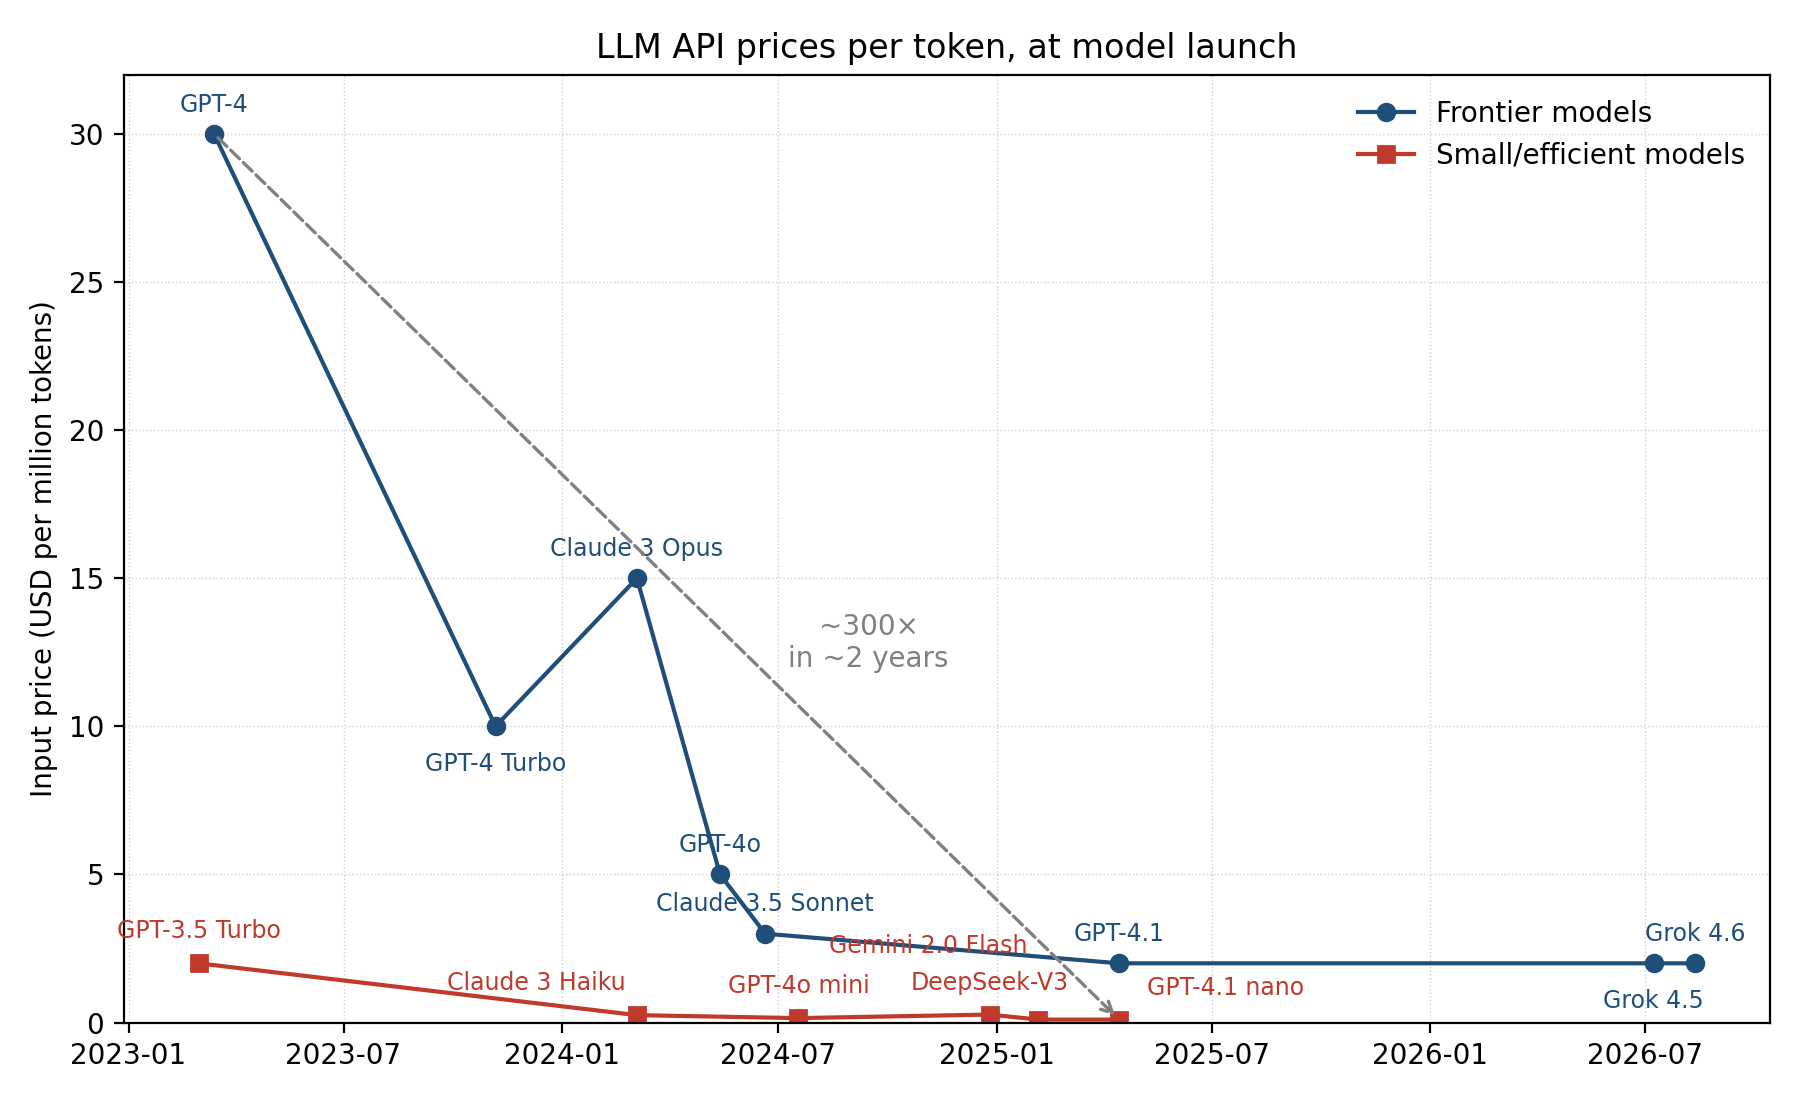
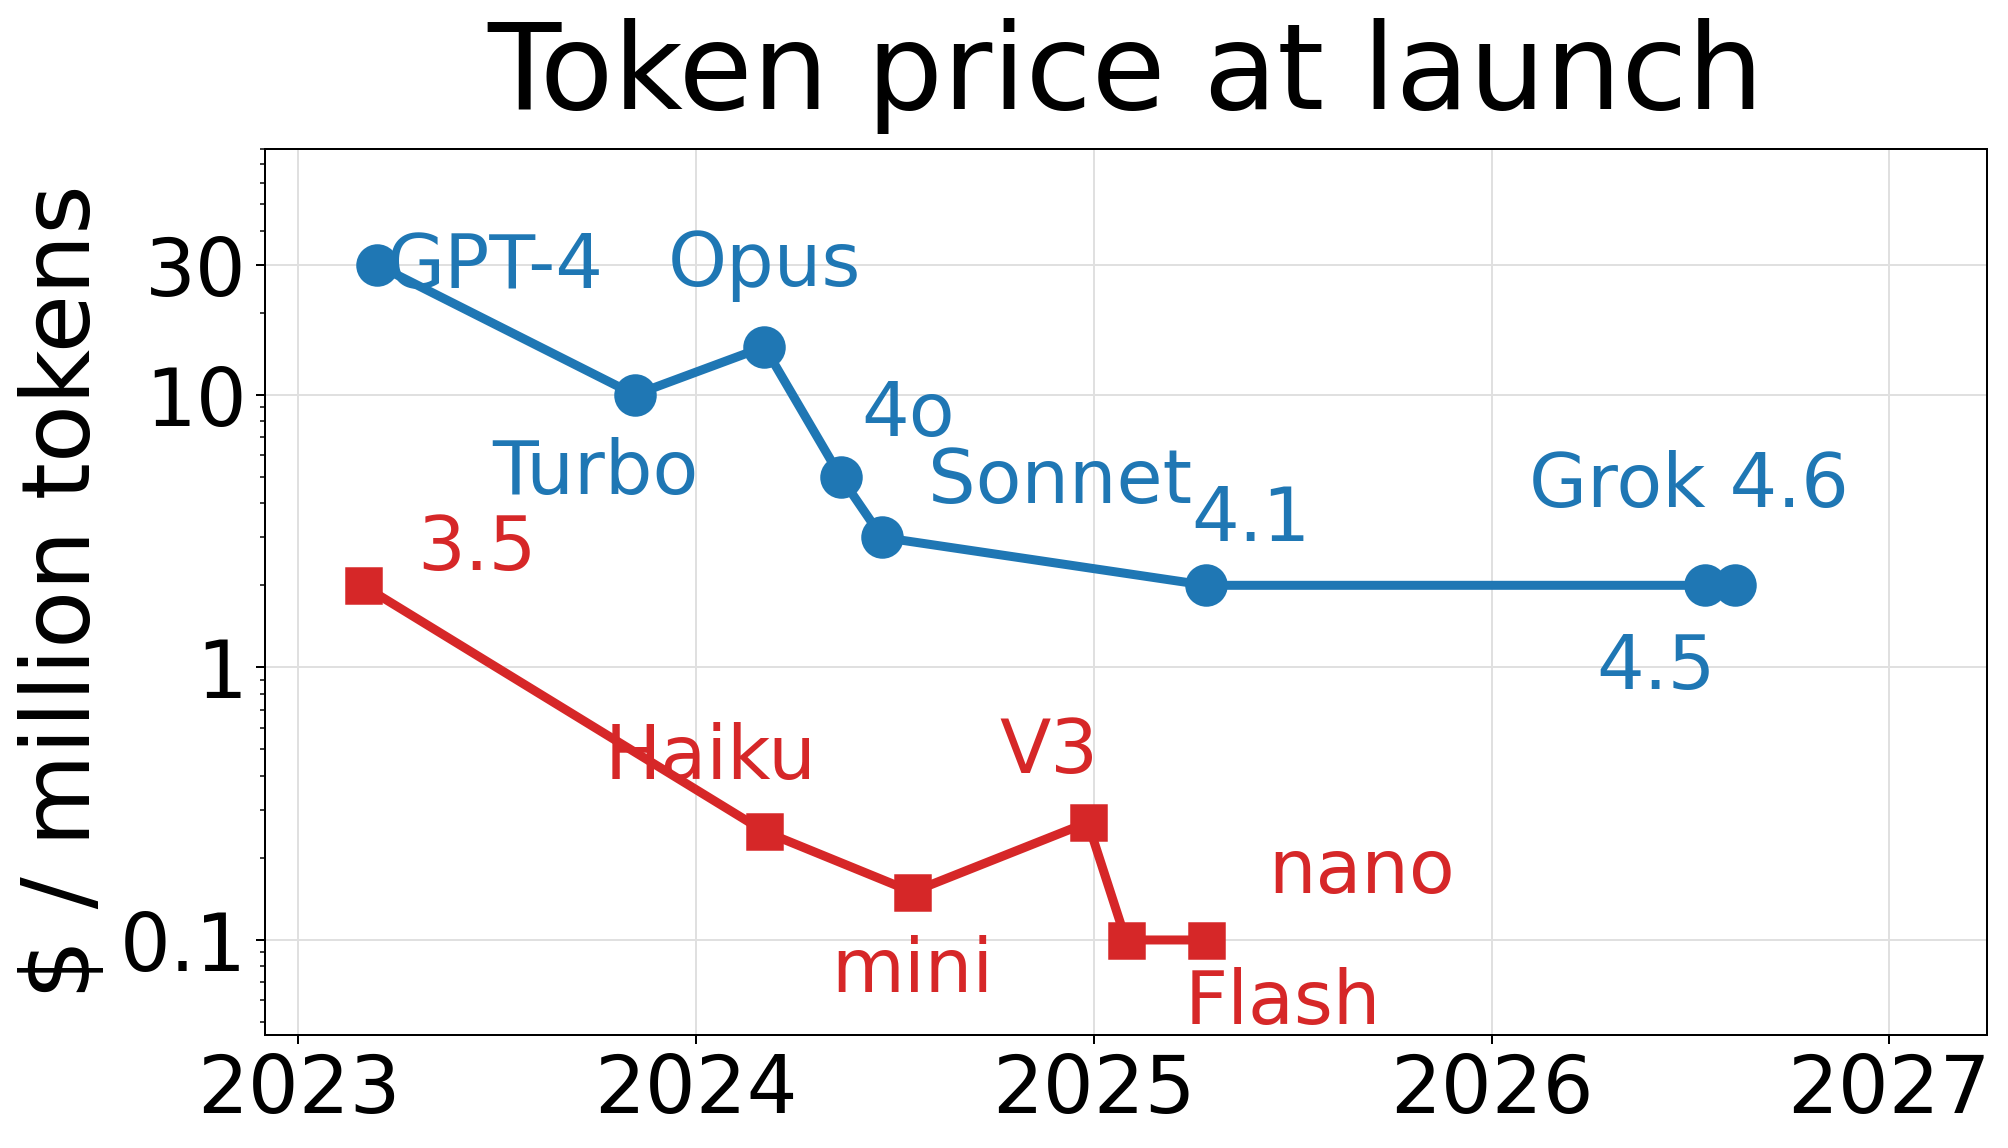
Update Saint John talk with poll chart and log-scale token prices.
Add a two-bar chart of the share writing no code (March vs August),
redraw token prices on a log axis with larger type, and include the
August poll and Stripe quote slides.

diff --git a/2026/saintjohn/token_prices.py b/2026/saintjohn/token_prices.py
@@ -1,0 +1,93 @@
+#!/usr/bin/env python3
+"""LLM API input prices at model launch. Log-scale redraw of token_prices-2.png."""
+from datetime import datetime
+
+import matplotlib.dates as mdates
+import matplotlib.pyplot as plt
+
+FRONTIER = [
+    ("GPT-4", "2023-03-14", 30.00),
+    ("Turbo", "2023-11-06", 10.00),
+    ("Opus", "2024-03-04", 15.00),
+    ("4o", "2024-05-13", 5.00),
+    ("Sonnet", "2024-06-20", 3.00),
+    ("4.1", "2025-04-14", 2.00),
+    ("Grok 4.5", "2026-07-16", 2.00),
+    ("Grok 4.6", "2026-08-12", 2.00),
+]
+
+SMALL = [
+    ("3.5", "2023-03-01", 2.00),
+    ("Haiku", "2024-03-04", 0.25),
+    ("mini", "2024-07-18", 0.15),
+    ("V3", "2024-12-26", 0.27),
+    ("Flash", "2025-01-30", 0.10),
+    ("nano", "2025-04-14", 0.10),
+]
+
+BLUE = "#1f77b4"
+RED = "#d62728"
+
+# Short names placed in data coordinates (log-friendly y).
+# (text, date, y, ha, va, color)
+LABELS = [
+    ("GPT-4", "2023-07-01", 40, "center", "top", BLUE),
+    ("Turbo", "2023-10-01", 7.0, "center", "top", BLUE),
+    ("Opus", "2024-03-04", 22, "center", "bottom", BLUE),
+    ("4o", "2024-06-01", 6.2, "left", "bottom", BLUE),
+    ("Sonnet", "2024-08-01", 3.5, "left", "bottom", BLUE),
+    ("4.1", "2025-05-25", 2.55, "center", "bottom", BLUE),
+    ("4.5", "2026-06-01", 1.35, "center", "top", BLUE),
+    ("Grok 4.6", "2026-07-01", 3.4, "center", "bottom", BLUE),
+    ("3.5", "2023-04-20", 2.0, "left", "bottom", RED),
+    ("Haiku", "2024-01-15", 0.34, "center", "bottom", RED),
+    ("mini", "2024-07-18", 0.105, "center", "top", RED),
+    ("V3", "2024-11-20", 0.36, "center", "bottom", RED),
+    ("Flash", "2025-03-25", 0.08, "left", "top", RED),
+    ("nano", "2025-06-10", 0.13, "left", "bottom", RED),
+]
+
+
+def to_dt(s):
+    return datetime.strptime(s, "%Y-%m-%d")
+
+
+plt.rcParams.update({
+    "font.size": 34,
+    "axes.titlesize": 48,
+    "axes.labelsize": 38,
+    "xtick.labelsize": 32,
+    "ytick.labelsize": 32,
+    "legend.fontsize": 34,
+    "figure.facecolor": "white",
+    "axes.facecolor": "white",
+})
+
+fig, ax = plt.subplots(figsize=(12.0, 7.2), dpi=180)
+
+fx = [to_dt(d) for _, d, _ in FRONTIER]
+fy = [p for _, _, p in FRONTIER]
+sx = [to_dt(d) for _, d, _ in SMALL]
+sy = [p for _, _, p in SMALL]
+
+ax.plot(fx, fy, color=BLUE, marker="o", markersize=16, linewidth=3.6, zorder=3)
+ax.plot(sx, sy, color=RED, marker="s", markersize=14, linewidth=3.6, zorder=3)
+
+for text, date, y, ha, va, color in LABELS:
+    ax.text(to_dt(date), y, text, color=color, fontsize=30,
+            ha=ha, va=va, clip_on=False)
+
+ax.set_yscale("log")
+ax.set_title("Token price at launch", pad=16)
+ax.set_ylabel("$ / million tokens")
+ax.set_ylim(0.045, 80)
+ax.set_xlim(to_dt("2022-12-01"), to_dt("2027-04-01"))
+ax.set_yticks([0.1, 1, 10, 30])
+ax.yaxis.set_major_formatter(plt.FuncFormatter(lambda v, _: f"{v:g}"))
+ax.yaxis.set_minor_formatter(plt.NullFormatter())
+ax.xaxis.set_major_locator(mdates.YearLocator())
+ax.xaxis.set_major_formatter(mdates.DateFormatter("%Y"))
+ax.grid(True, which="major", linestyle="-", color="0.88", zorder=0)
+ax.set_axisbelow(True)
+fig.tight_layout()
+fig.savefig("token_prices-2.png", dpi=180, bbox_inches="tight", facecolor="white")

diff --git a/2026/saintjohn/no_code_fraction.py b/2026/saintjohn/no_code_fraction.py
@@ -1,0 +1,61 @@
+#!/usr/bin/env python3
+"""Two-bar chart: share of respondents writing no code by hand."""
+import matplotlib.pyplot as plt
+
+PAPER = "#faf8f4"
+INK = "#1c1c28"
+MUTED = "#5c5c6b"
+ACCENT = "#9a2b2b"
+ACCENT_SOFT = "#c45c52"
+
+plt.rcParams.update({
+    "font.family": "sans-serif",
+    "font.sans-serif": ["Helvetica Neue", "Helvetica", "Arial"],
+    "font.size": 18,
+    "axes.titlesize": 26,
+    "axes.labelsize": 18,
+    "xtick.labelsize": 20,
+    "ytick.labelsize": 16,
+    "figure.facecolor": PAPER,
+    "axes.facecolor": PAPER,
+    "text.color": INK,
+    "axes.labelcolor": INK,
+    "xtick.color": INK,
+    "ytick.color": MUTED,
+    "axes.edgecolor": INK,
+})
+
+labels = ["March 15", "August 16"]
+values = [21.7, 38.9]
+colors = [ACCENT_SOFT, ACCENT]
+
+fig, ax = plt.subplots(figsize=(12.2, 5.0), dpi=180)
+bars = ax.bar(labels, values, width=0.52, color=colors, zorder=3)
+
+ax.set_title("Fraction writing no code", pad=14, fontfamily="Iowan Old Style",
+             fontweight="semibold", color=INK)
+ax.set_ylim(0, 48)
+ax.set_ylabel("%")
+ax.yaxis.set_major_formatter(plt.FuncFormatter(lambda x, _: f"{int(x)}"))
+ax.yaxis.grid(True, linestyle=":", color="#e4ded3", zorder=0)
+ax.set_axisbelow(True)
+for spine in ("top", "right", "left"):
+    ax.spines[spine].set_visible(False)
+ax.spines["bottom"].set_color(INK)
+ax.tick_params(axis="y", length=0)
+ax.tick_params(axis="x", length=0, pad=8)
+
+for bar, value in zip(bars, values):
+    ax.text(
+        bar.get_x() + bar.get_width() / 2,
+        bar.get_height() + 1.4,
+        f"{value:.1f}%",
+        ha="center",
+        va="bottom",
+        fontsize=22,
+        fontweight="medium",
+        color=INK,
+    )
+
+fig.tight_layout()
+fig.savefig("no_code_fraction.png", dpi=180, facecolor=PAPER, bbox_inches="tight")

diff --git a/2026/saintjohn/saintjohn.md b/2026/saintjohn/saintjohn.md
@@ -221,6 +221,21 @@ section.lead p { font-size: .92em; color: var(--muted); margin: .25em 0; }
 section.lead strong { color: var(--ink); }
 section.lead a { border-bottom: none; }
 section.lead footer { display: none; }
+
+/* chart slides: pack title, figure, and caption from the top */
+section.chart {
+  justify-content: flex-start;
+}
+section.chart h1 {
+  margin-bottom: .15em;
+}
+section.chart img:not(.emoji) {
+  max-height: 390px;
+  max-width: 100%;
+  margin: .1em auto .05em;
+  box-shadow: none;
+  border-radius: 0;
+}
 </style>
 
 <!-- _class: lead -->
@@ -247,15 +262,20 @@ X: [@lemire](https://x.com/lemire) · GitHub: [github.com/lemire](https://github
 
 ---
 
-# The plan
+<!-- _class: lead -->
 
-1. Where we actually are
-2. What makes an agent work
-   - benchmarks and tests as constraints
-   - context management
-   - orchestrating parallel agents
-3. Field reports
-4. What we must change: teaching, work, research
+## Preface
+
+## Back in the 1990s
+
+---
+
+# The singularity
+
+> « I believe that the creation of greater than human intelligence will occur during the next thirty years. (I'll be surprised if this event occurs before 2005 or after 2030.)  »
+
+Vernor Vinge, 1993
+
 
 ---
 
@@ -267,11 +287,20 @@ X: [@lemire](https://x.com/lemire) · GitHub: [github.com/lemire](https://github
 
 ---
 
-![](aiuse.png)
+![bg](aiuse.png)
 
 ---
 
+![bg](aiuseaugust.png)
+
+
+---
+
+<!-- _class: chart -->
+
 # What that poll really shows
+
+![](no_code_fraction.png)
 
 - this is a practice change, not a tool upgrade.
 
@@ -289,11 +318,11 @@ X: [@lemire](https://x.com/lemire) · GitHub: [github.com/lemire](https://github
 
 ---
 
-![](sota_frontier.png)
+![bg](sota_frontier.png)
 
 ---
 
-![](sota_frontier_open.png)
+![bg](sota_frontier_open.png)
 
 
 ---
@@ -316,9 +345,16 @@ X: [@lemire](https://x.com/lemire) · GitHub: [github.com/lemire](https://github
 
 
 
-![](token_prices-2.png)
+![bg](token_prices-2.png)
 
 
+---
+
+![bg right:60% contain](stripe.png)
+
+> January 1st marked the beginning of the singularity.
+
+—Stripe, August 19, 2026
 
 ---
 
@@ -353,7 +389,7 @@ All Canadian public companies, excluding banks: **$2.6 trillion**
 
 ---
 
-![](revenu.png)
+![bg](revenu.png)
 
 ---
 
